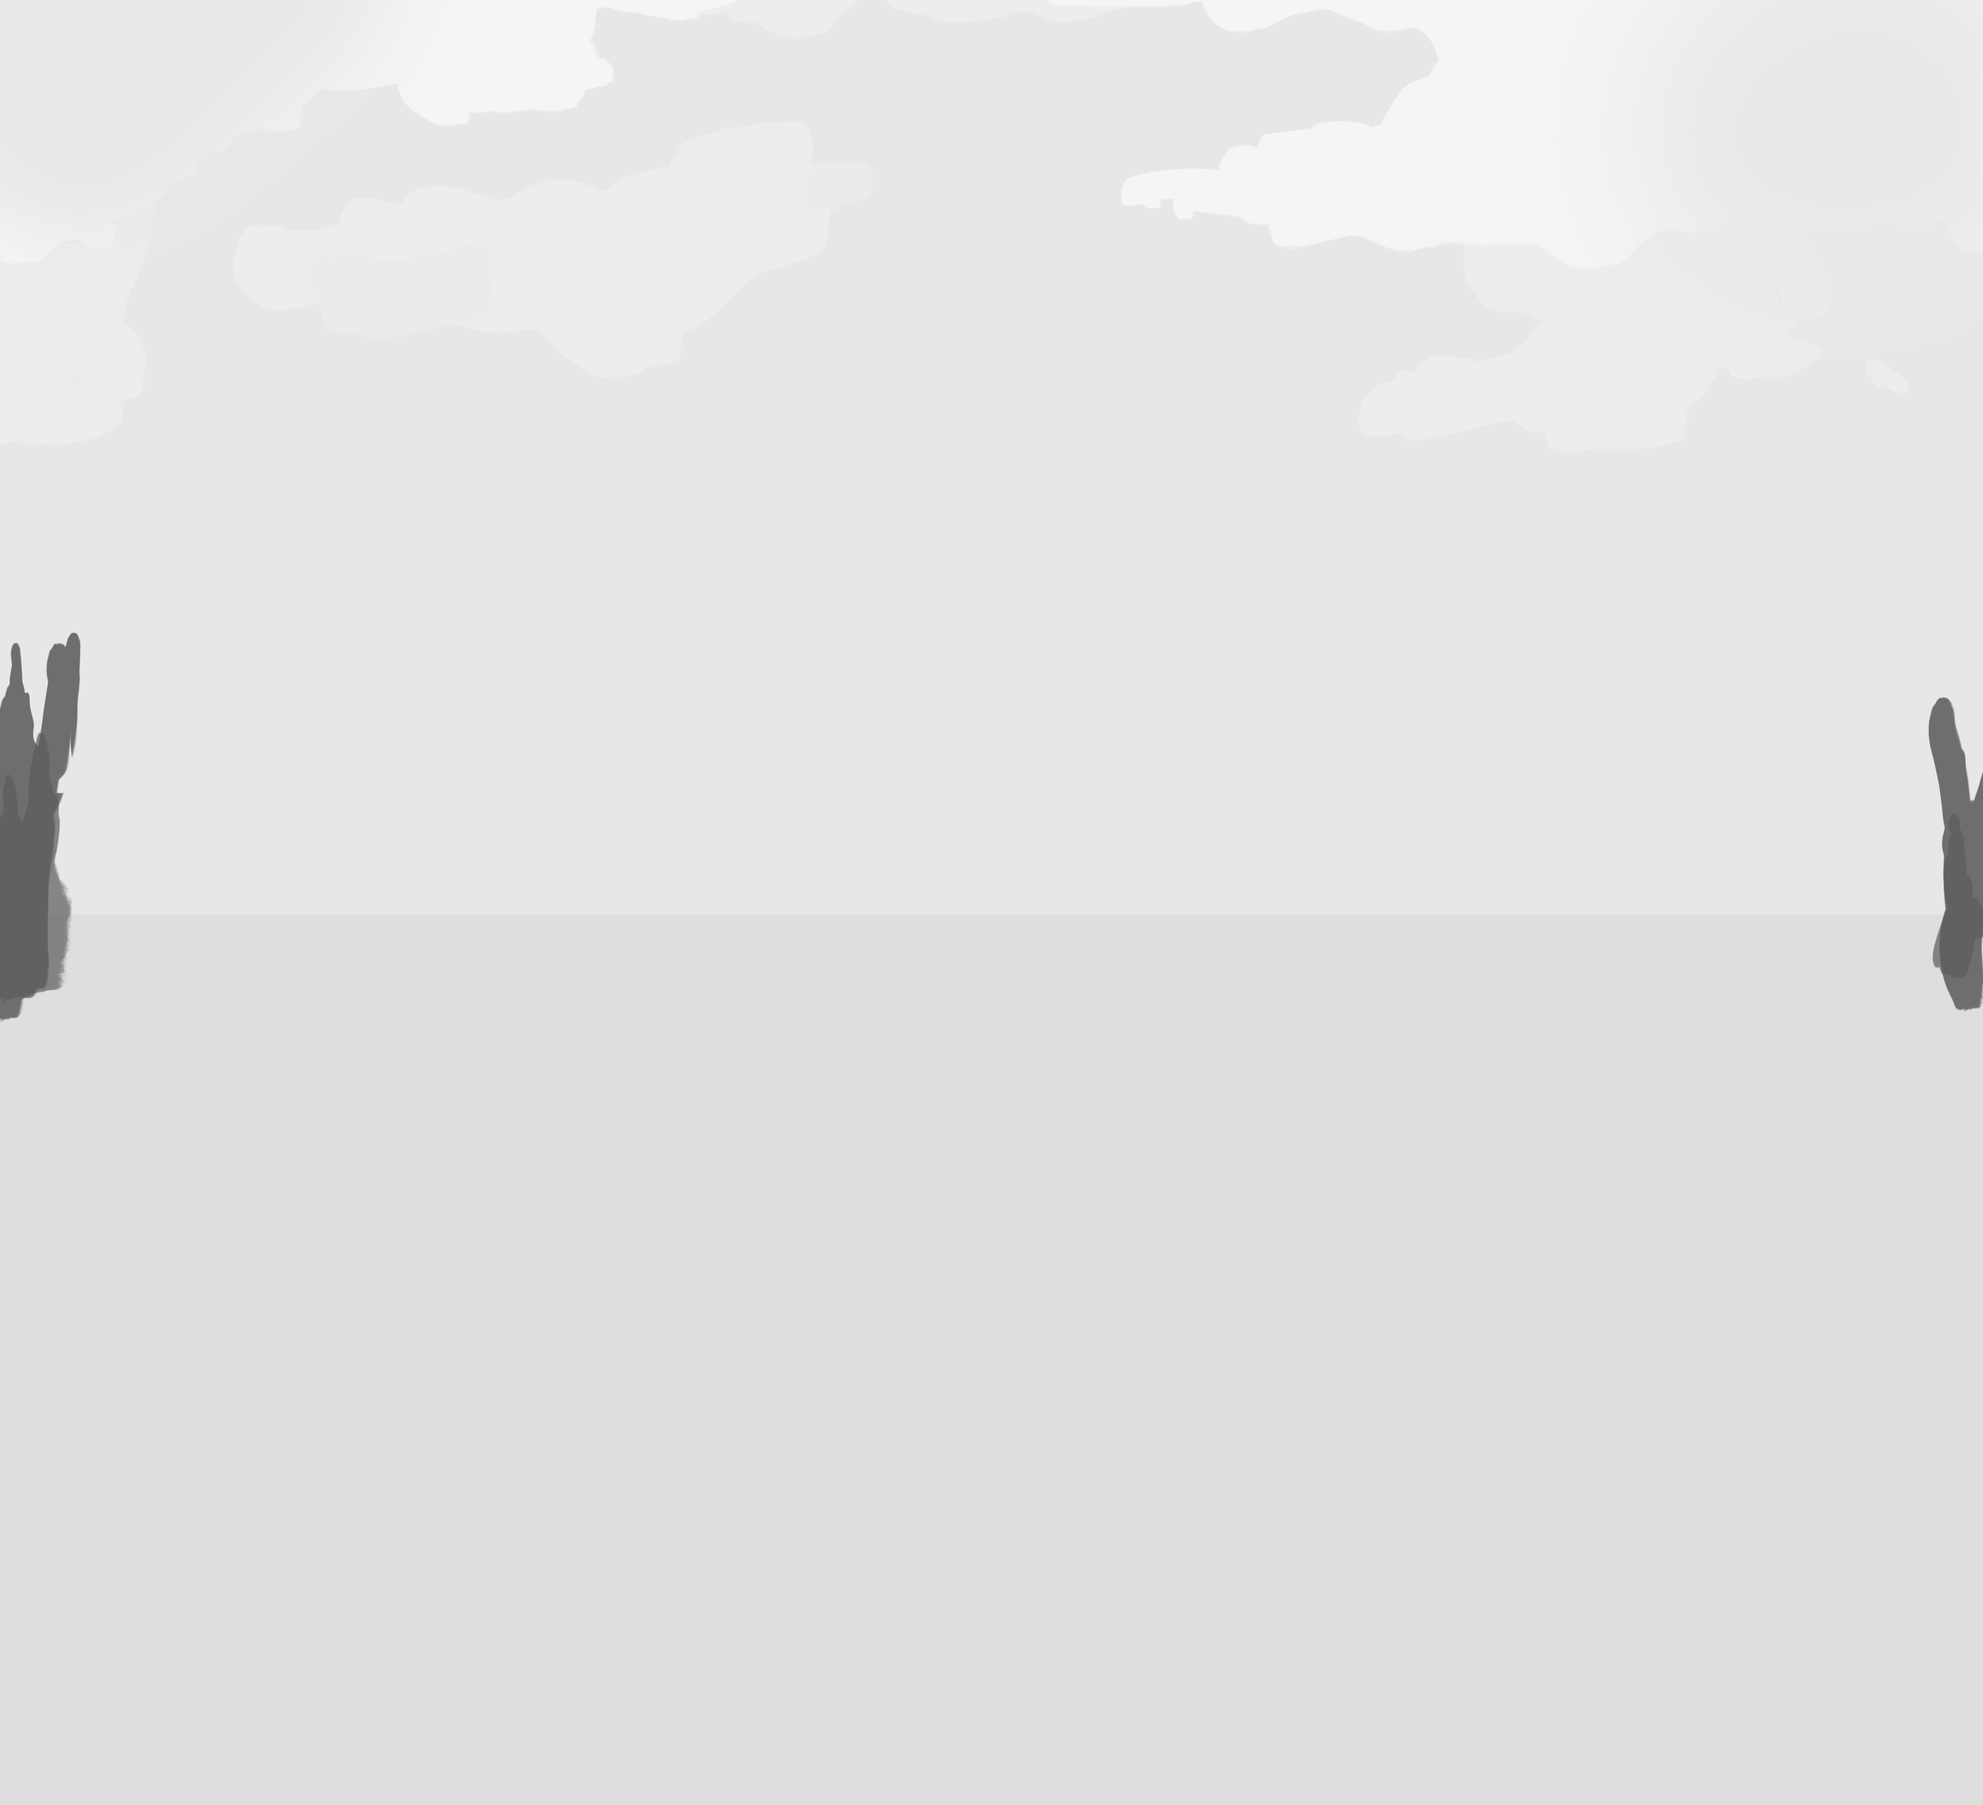
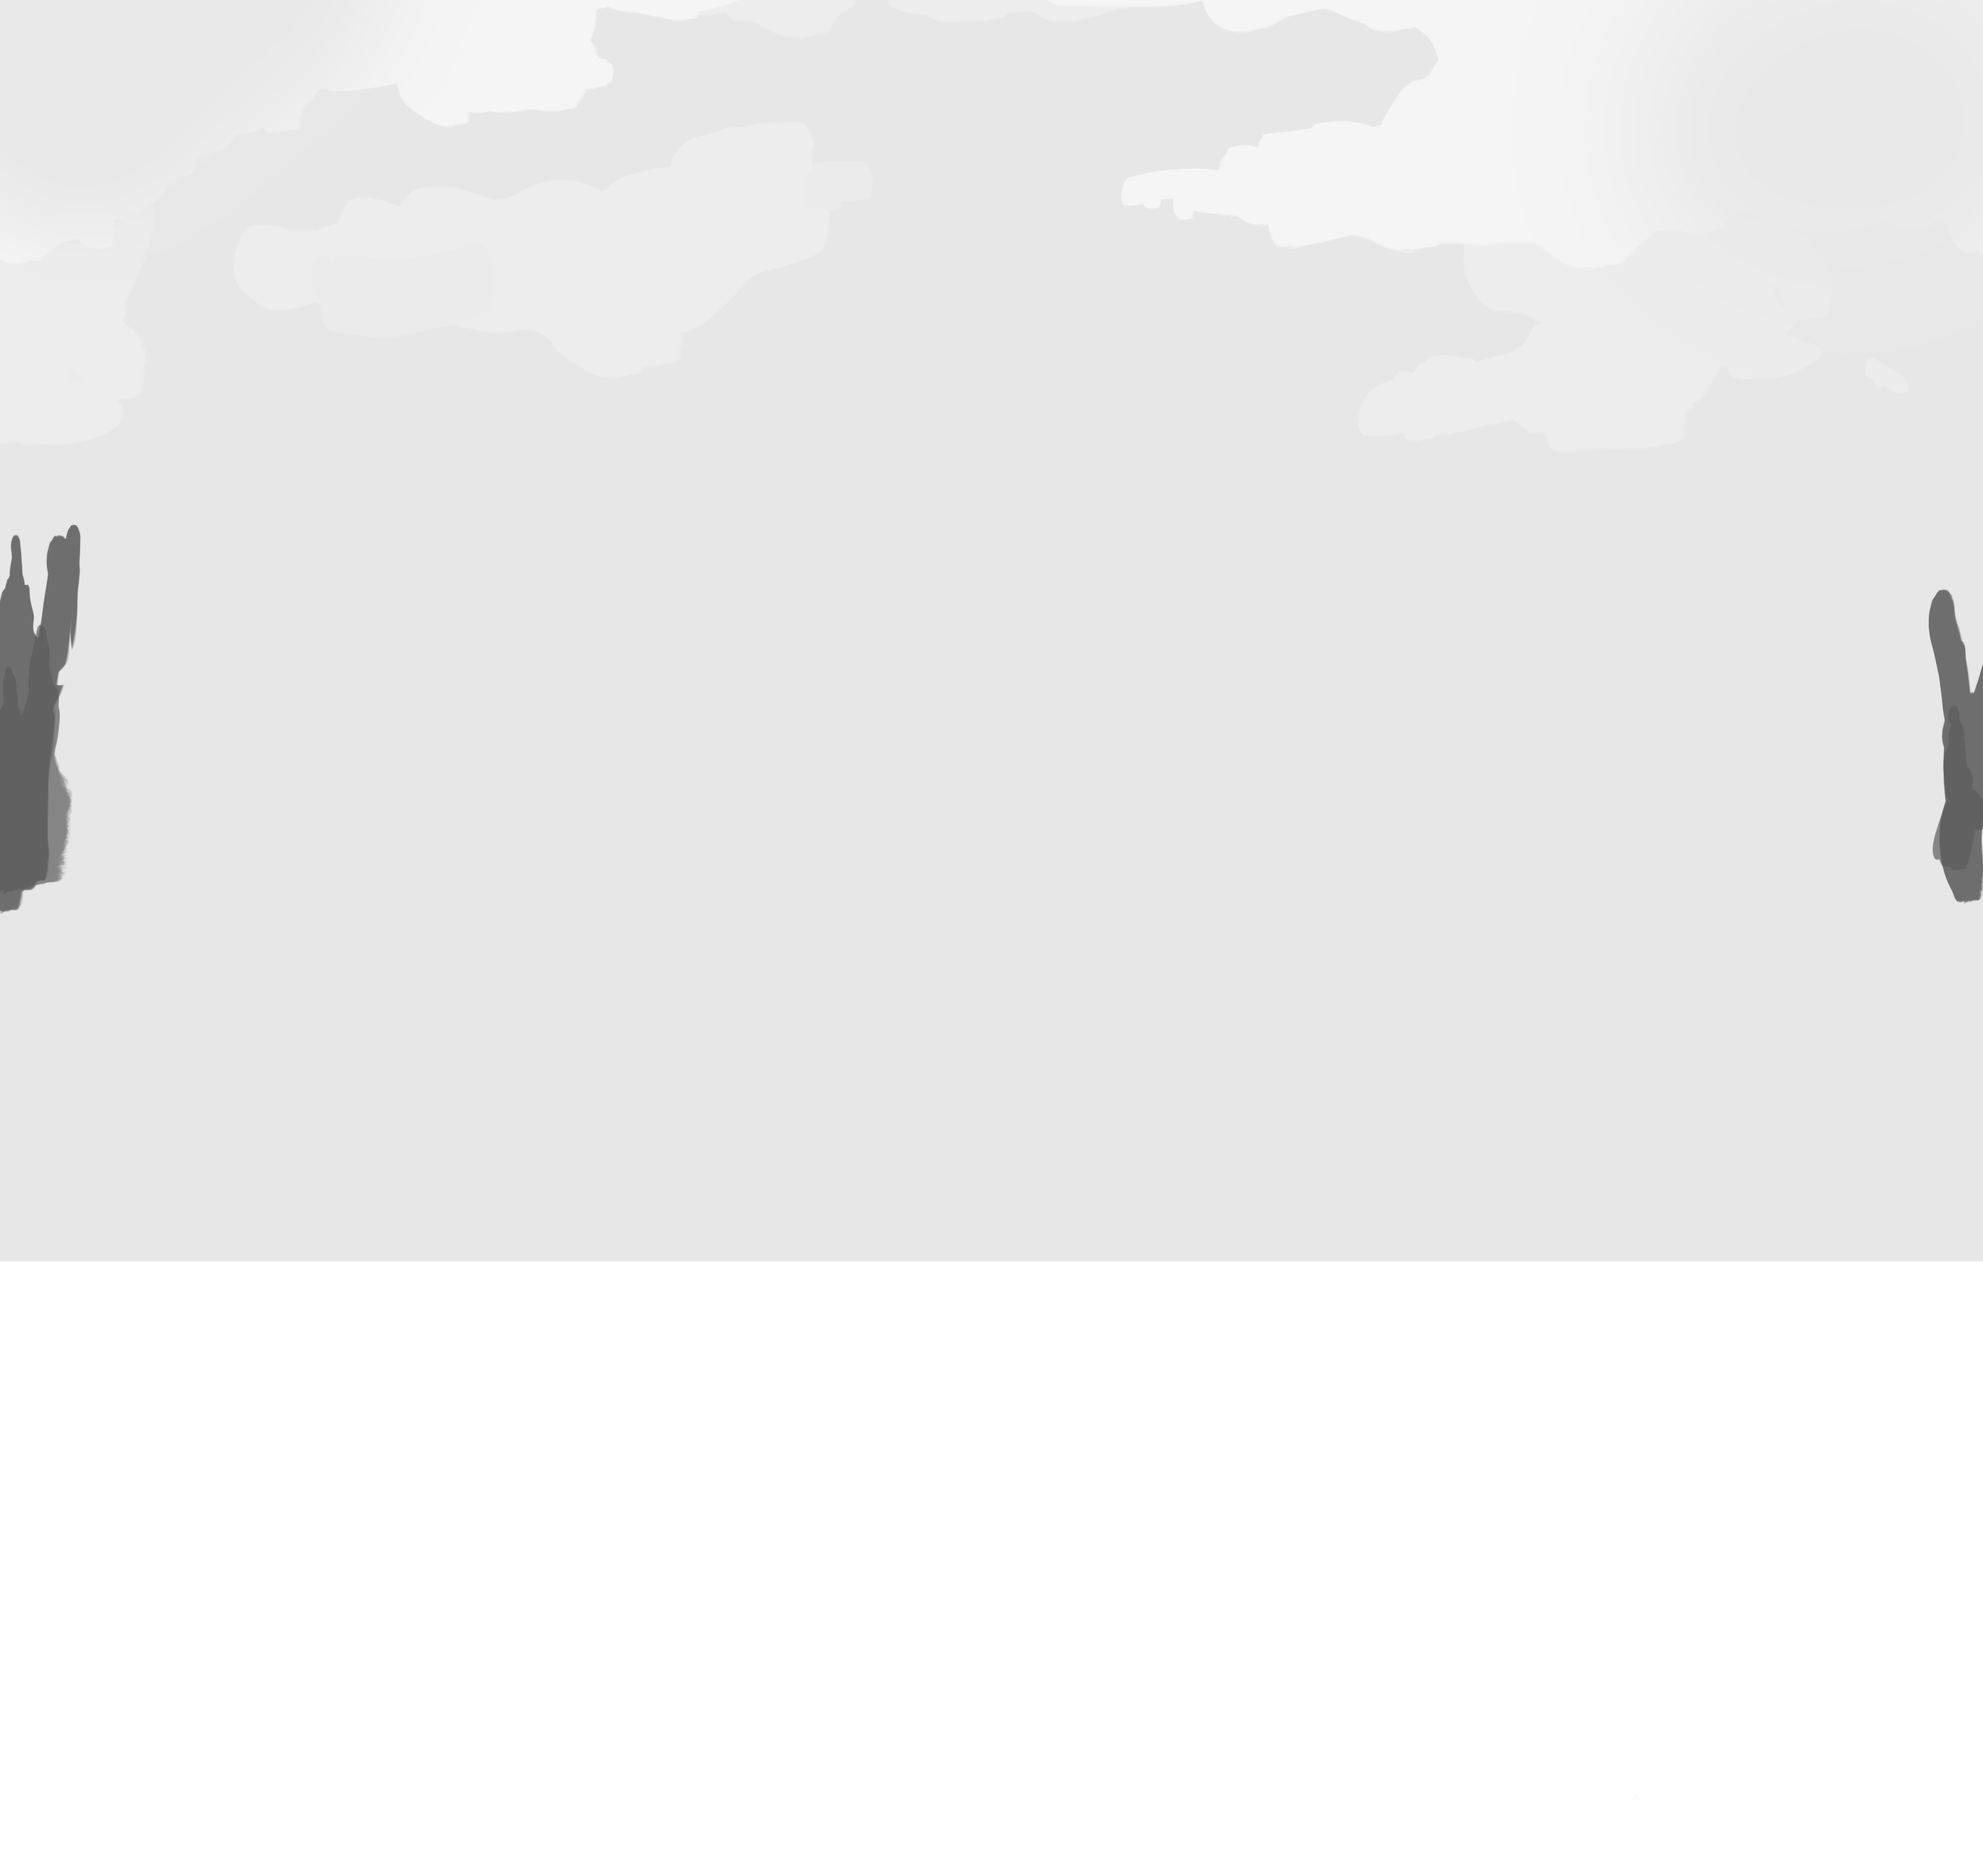
some parallax shit

diff --git a/web/resources/jquery/main.js b/web/resources/jquery/main.js
@@ -2,18 +2,19 @@ $ = jQuery;
 $(window).scroll(function(){
 
     var st = $(this).scrollTop();
+    console.log(st);
+        $("#test").css({
+            "transform": "translate( 0%, " + (st / 10) + "%"
+        })
 
-   $("#test").css({
-       "transform" : "translate( 0%, " + (st/10) + "%"
-    })
+        $("#first_parallax").css({
+            "transform": "translate( 0%, -" + (st / 20) + "%"
+        })
+        $("#sec_parallax").css({
+            "transform": "translate( 0%, -" + (st / 10) + "%"
+        })
+        $("#third_parallax").css({
+            "transform": "translate( 0%, -" + (st / 9.98) + "%"
+        });
 
-    $("#first_parallax").css({
-        "transform" : "translate( 0%, -" + (st/10) + "%"
-    })
-    $("#sec_parallax").css({
-        "transform" : "translate( 0%, -" + (st/5) + "%"
-    })
-    $("#third_parallax").css({
-        "transform" : "translate( 0%, -" + (st/3) + "%"
-    })
 });

diff --git a/web/resources/css/main.css b/web/resources/css/main.css
@@ -22,10 +22,10 @@ body{
     background-size: 100% auto;
 }
 
-#third_parallax{
+#third_parallax_part_one{
     background-repeat: no-repeat;
     background-position: top;
-    height: 1820px;
+    height: 1705px;
     background-size: 100% auto;
 }
 
